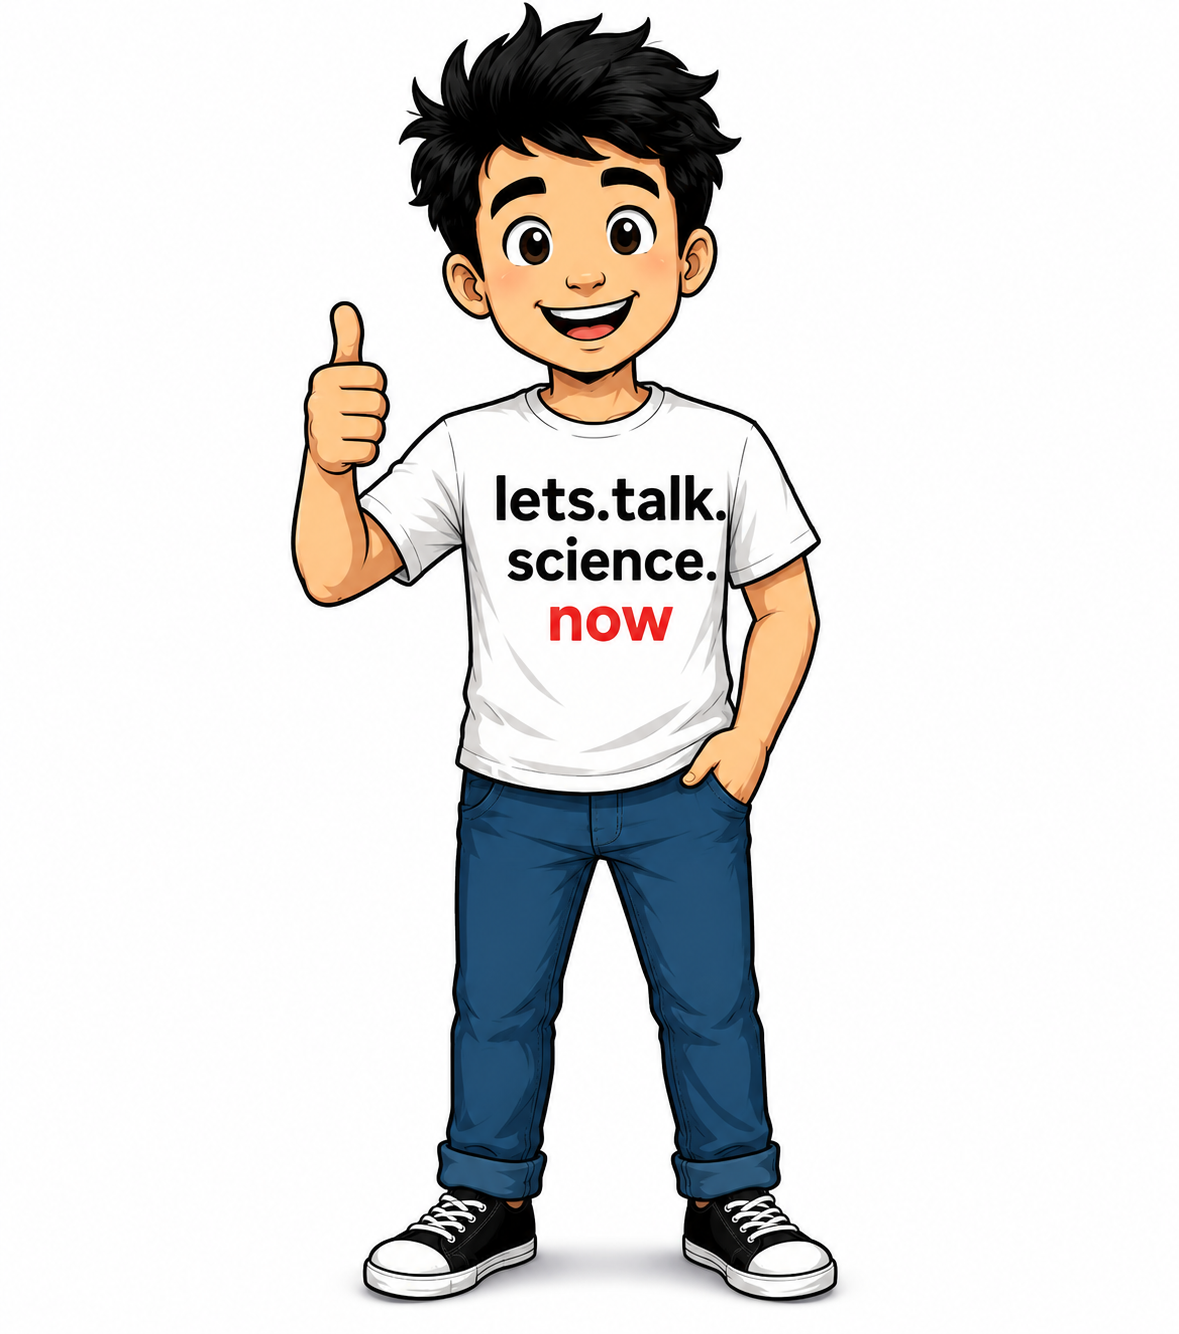
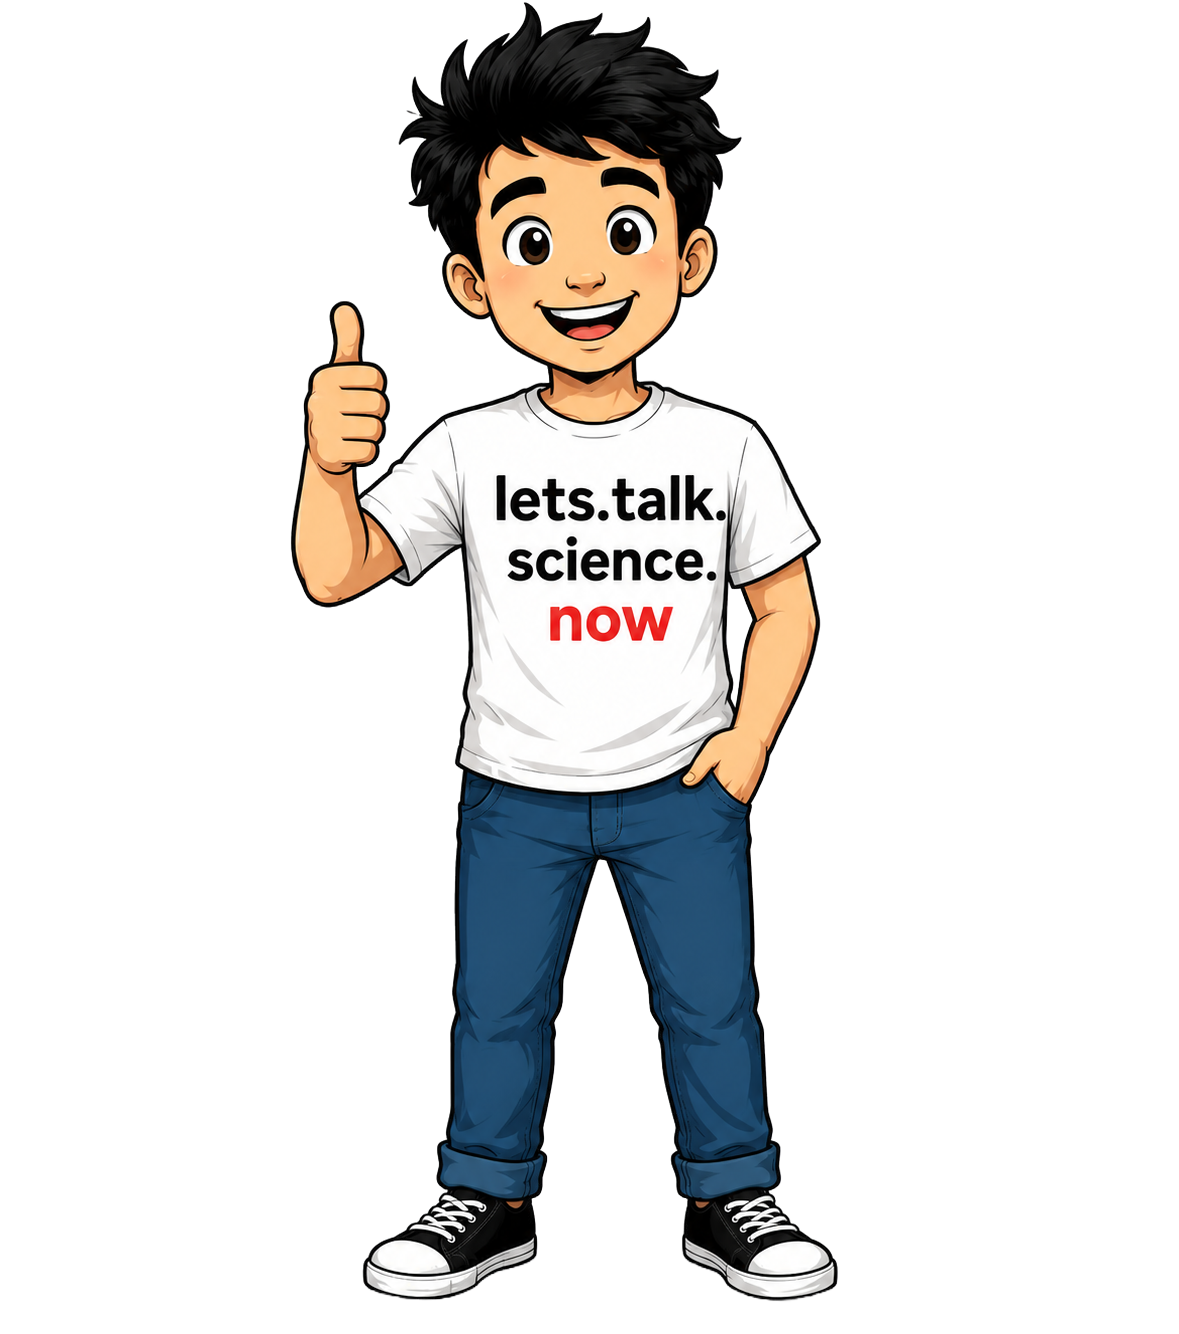
Rework homepage hero: personal intro + mission, transparent mascot
- Swap hero to a personal lead ("Hello! I am Akif.") with the brand
  mission (scientific heritage of the Indian subcontinent + Asia) and a
  "let's talk science now?" brand-echo CTA; drop the oversized title and
  enlarge the header wordmark instead.
- Two-column hero (intro left, mascot right); actions on one row.
- Remove the "four worlds" topics block from the homepage so it leads
  with stories; tighten spacing so "Fresh from the feed" sits near the fold.
- Replace mascot.png with a transparent (background-free) cutout.

Changed region(s): [[0.3053, 0.922, 0.7328, 0.9835]]

diff --git a/assets/css/main.css b/assets/css/main.css
@@ -128,7 +128,7 @@ p{line-height:1.7;}
 /* Site header / navigation */
 .site-header{position:sticky;top:0;z-index:50;background:rgba(255,255,255,.86);backdrop-filter:saturate(180%) blur(10px);border-bottom:1px solid var(--line);}
 .site-nav{display:flex;align-items:center;gap:var(--sp-md);height:68px;}
-.brandmark{margin-right:auto;font-family:var(--font-head);font-weight:700;font-size:1.12rem;letter-spacing:-.01em;color:var(--ink);}
+.brandmark{margin-right:auto;font-family:var(--font-head);font-weight:700;font-size:1.28rem;letter-spacing:-.01em;color:var(--ink);}
 .brandmark .now{color:var(--red);}
 .site-menu{display:flex;align-items:center;gap:var(--sp-lg);}
 .nav-links{display:flex;align-items:center;gap:1.6rem;}
@@ -177,16 +177,21 @@ p{line-height:1.7;}
 .text-link:hover{color:var(--blue-deep);}
 
 /* Hero (reused by landing + homepage) */
-.hero{background:var(--sky);text-align:center;padding-block:var(--sp-2xl) var(--sp-3xl);overflow:hidden;}
-.hero__mascot{position:relative;display:inline-block;}
+.hero{background:var(--sky);padding-block:var(--sp-2xl) var(--sp-xl);overflow:hidden;}
+.hero + .section{padding-top:var(--sp-xl);}
+.hero__grid{display:grid;grid-template-columns:1.25fr .75fr;grid-template-areas:"intro mascot";align-items:center;column-gap:var(--sp-xl);row-gap:var(--sp-lg);}
+.hero__intro{grid-area:intro;text-align:left;}
+.hero__mascot{grid-area:mascot;position:relative;justify-self:center;}
 .hero__mascot::before{content:"";position:absolute;inset:-6%;background:radial-gradient(closest-side,rgba(255,255,255,.9),rgba(255,255,255,0));z-index:0;}
-.hero__mascot img{width:210px;position:relative;z-index:1;animation:float 5s ease-in-out infinite;}
+.hero__mascot img{display:block;width:230px;position:relative;z-index:1;animation:float 5s ease-in-out infinite;}
 @keyframes float{0%,100%{transform:translateY(0);}50%{transform:translateY(-10px);}}
-.hero__title{font-size:var(--fs-display);margin-top:var(--sp-md);}
-.hero__title .now{color:var(--red);}
-.hero__tagline{font-family:var(--font-head);font-weight:500;font-size:clamp(1.1rem,2.4vw,1.4rem);color:#43566a;margin-top:var(--sp-md);}
-.hero__lede{max-width:62ch;margin:var(--sp-lg) auto 0;color:var(--muted);font-size:var(--fs-lead);line-height:1.75;}
-.hero__actions{display:flex;gap:var(--sp-sm);justify-content:center;flex-wrap:wrap;margin-top:var(--sp-xl);}
+.hero__title{font-size:clamp(2.1rem,4.4vw,3rem);letter-spacing:-.01em;}
+.hero__lede{max-width:52ch;margin-top:var(--sp-md);color:var(--muted);font-size:var(--fs-lead);line-height:1.7;}
+.hero__cta-line{max-width:52ch;margin-top:var(--sp-lg);font-family:var(--font-head);font-weight:500;font-size:clamp(1.05rem,2vw,1.22rem);line-height:1.6;color:var(--ink);}
+.hero__cta-line .ltsn{font-weight:700;}
+.hero__cta-line .now{color:var(--red);}
+.hero__actions{display:flex;flex-wrap:wrap;gap:var(--sp-sm);margin-top:var(--sp-lg);}
+.hero__actions .btn{padding:.68em 1.15em;font-size:.95rem;}
 
 /* Section header */
 .section-soft{background:var(--surface-soft);}
@@ -336,6 +341,11 @@ p{line-height:1.7;}
 .related{margin-top:var(--sp-3xl);}
 
 @media (max-width:900px){
+  .hero__grid{grid-template-columns:1fr;grid-template-areas:"mascot" "intro";row-gap:var(--sp-lg);}
+  .hero__intro{text-align:center;}
+  .hero__lede{max-width:60ch;margin-left:auto;margin-right:auto;}
+  .hero__actions{justify-content:center;}
+  .hero__mascot img{width:200px;}
   .topic-grid{grid-template-columns:repeat(2,1fr);}
   .story-grid{grid-template-columns:1fr;}
   .series-grid{grid-template-columns:1fr;}

diff --git a/index.html b/index.html
@@ -7,31 +7,23 @@ description: >-
 
 <!-- HERO -->
 <section class="hero">
-  <div class="container">
+  <div class="container hero__grid">
+    <div class="hero__intro">
+      <h1 class="hero__title">Hello! I am Akif.</h1>
+      <p class="hero__lede">
+        I post the things I learn so we can learn together. If you find my mistakes, please correct me! 🌻
+      </p>
+      <p class="hero__lede">
+        I would like to raise awareness about the scientific heritage of the Indian subcontinent, Asia, and the world, with a particular focus on the Indian subcontinent and the Asian continent.
+      </p>
+      <p class="hero__cta-line">So, <span class="ltsn">let's talk science <span class="now">now</span>?</span> Browse any of the stories from the feed below to start.</p>
+      <div class="hero__actions">
+        <a class="btn btn-primary" href="{{ '/stories/' | relative_url }}">Explore the stories</a>
+        <a class="btn btn-ghost btn-ig" href="https://instagram.com/{{ site.instagram_username }}" target="_blank" rel="noopener">{%- include icon-instagram.svg -%}Watch on Instagram</a>
+        <a class="btn btn-ghost btn-yt" href="{{ site.youtube_url }}" target="_blank" rel="noopener">{%- include icon-youtube.svg -%}Watch on YouTube</a>
+      </div>
+    </div>
     <div class="hero__mascot"><img src="{{ '/mascot.png' | relative_url }}" alt="Let's Talk Science Now mascot"></div>
-    <h1 class="hero__title">Let's Talk Science <span class="now">Now</span></h1>
-    <p class="hero__tagline">Hello! I am Akif.</p>
-    <p class="hero__lede">
-      I post the things I learn so we can learn together. If you find my mistakes, please correct me! 🌻
-    </p>
-    <div class="hero__actions">
-      <a class="btn btn-primary" href="{{ '/stories/' | relative_url }}">Explore the stories</a>
-      <a class="btn btn-ghost btn-ig" href="https://instagram.com/{{ site.instagram_username }}" target="_blank" rel="noopener">{%- include icon-instagram.svg -%}Watch on Instagram</a>
-      <a class="btn btn-ghost btn-yt" href="{{ site.youtube_url }}" target="_blank" rel="noopener">{%- include icon-youtube.svg -%}Watch on YouTube</a>
-    </div>
-  </div>
-</section>
-
-<!-- TOPICS -->
-<section class="section">
-  <div class="container">
-    <div class="section-head">
-      <p class="eyebrow">Explore</p>
-      <h2>Follow curiosity across four worlds.</h2>
-    </div>
-    <div class="topic-grid">
-      {% for entry in site.data.topics %}{% assign tslug = entry[0] %}{% include topic-card.html slug=tslug %}{% endfor %}
-    </div>
   </div>
 </section>
 
